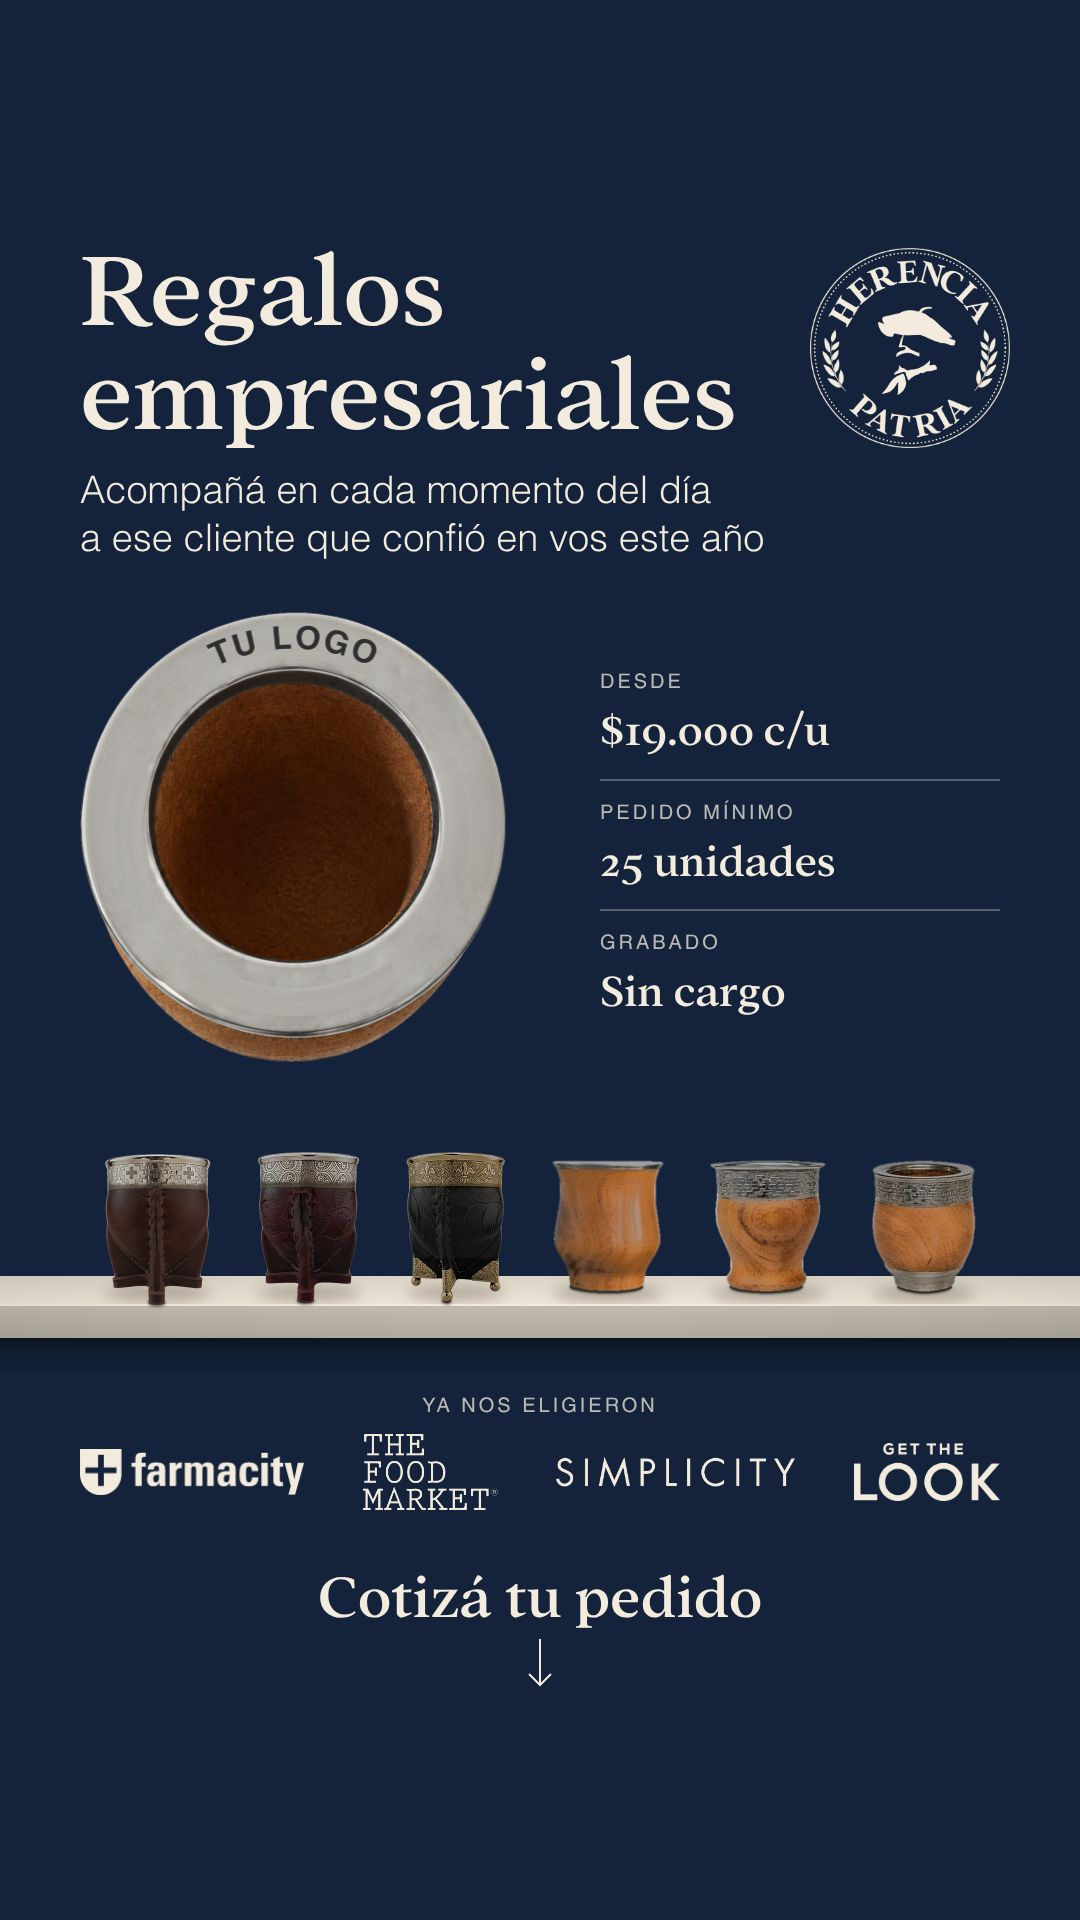
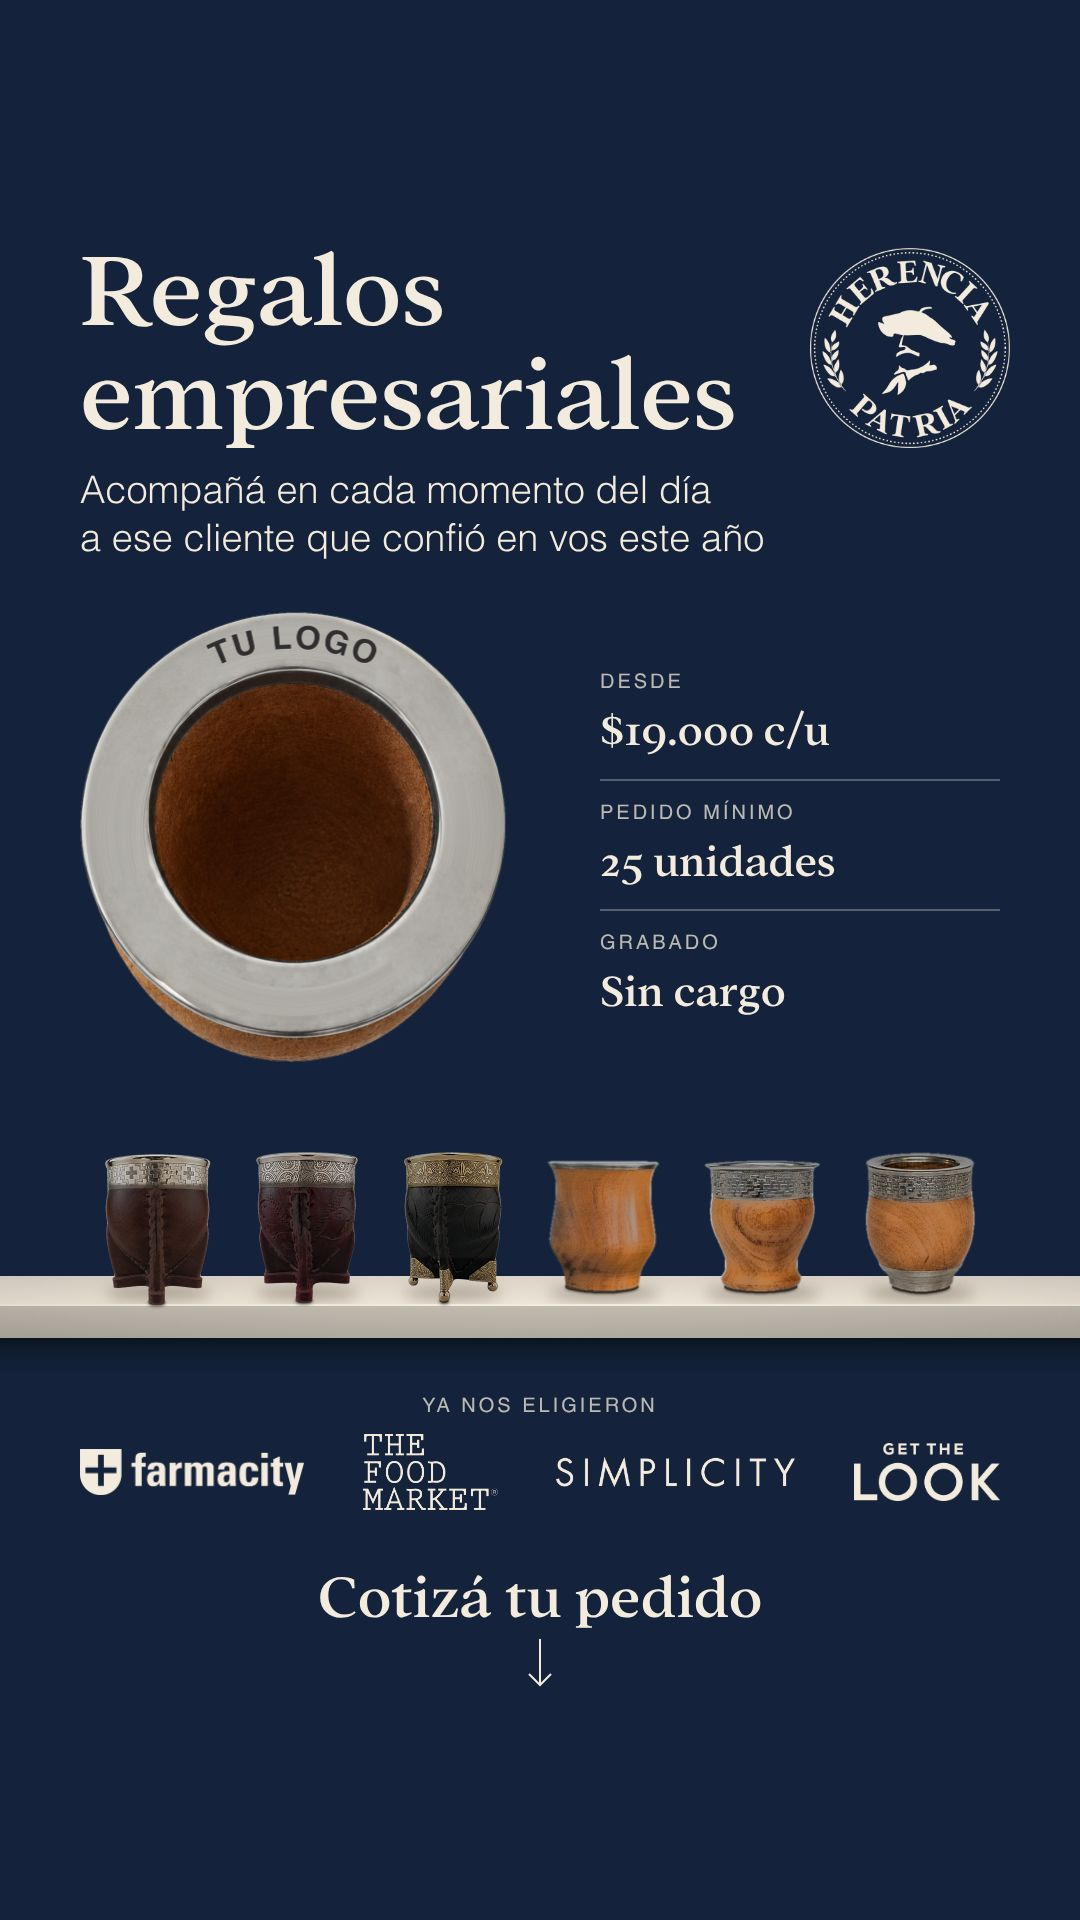
Historia empresas B: imperial con base un poco más grande
Claude-Session: https://claude.ai/code/session_012H3xPSmbqKoMmc2aK7okNH

diff --git a/src/Root.tsx b/src/Root.tsx
@@ -459,7 +459,7 @@ export const RemotionRoot: React.FC = () => {
           //     public/recortes/calabaza-base-bolita.png:150:10 \
           //     public/recortes/algarrobo-camionero.png:132:0 \
           //     public/recortes/algarrobo-imperial.png:132:0 \
-          //     public/recortes/algarrobo-imperial-con-base.png:132:0
+          //     public/recortes/algarrobo-imperial-con-base.png:140:0
           estudio: "estudio-mates.png",
           confianza: "Ya nos eligieron",
           logos: [
